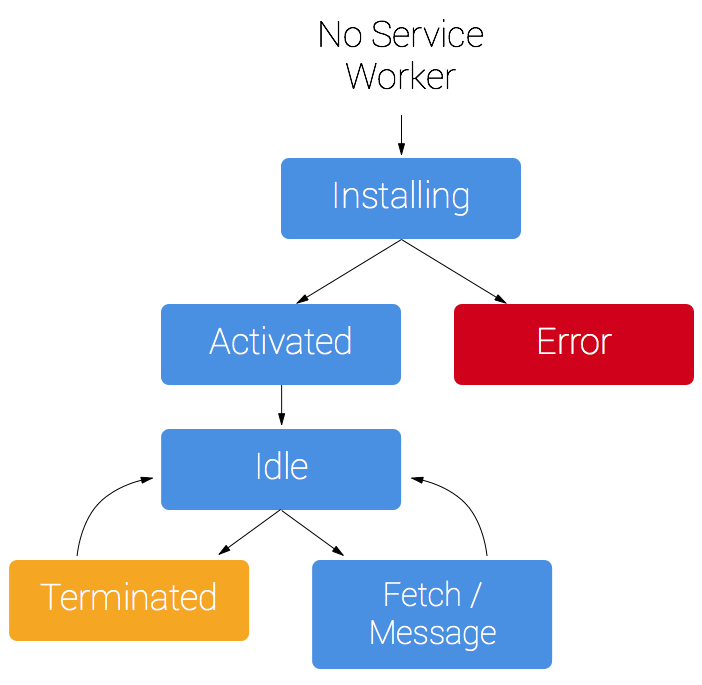
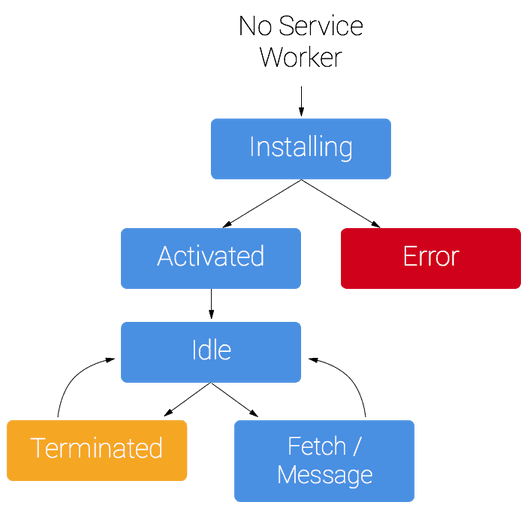
Site updated: 2018-03-14 10:37:31

diff --git a/2018/03/09/웹앱-매니페스트-서비스워커-Web-App-Manifest-Service-Worker/index.html b/2018/03/09/웹앱-매니페스트-서비스워커-Web-App-Manifest-Service-Worker/index.html
@@ -18,7 +18,7 @@
 <meta property="og:description" content="이전 포스트에서 프로그레시브 웹앱(Progressive Web Apps)은 웹과 네이티브 앱이 가진 단점을 개선하는 새로운 형태의 웹앱이라고 설명드렸습니다. 그렇다면, 어떻게 PWA를 개발할 수 있을까요..? 어떠한 웹앱이 PWA가 되기 위해선 여러가지 조건을 충족하여야 하는데요. 그중에서도 특히 웹앱 매니페스트(Web App Manifest)와 서비스">
 <meta property="og:locale" content="ko">
 <meta property="og:image" content="http://altenull.github.io/images/thumbnails/thumbnail3.png">
-<meta property="og:updated_time" content="2018-03-13T17:05:50.628Z">
+<meta property="og:updated_time" content="2018-03-14T01:36:23.673Z">
 <meta name="twitter:card" content="summary">
 <meta name="twitter:title" content="웹앱 매니페스트 &amp; 서비스워커(Web App Manifest &amp; Service Worker)">
 <meta name="twitter:description" content="이전 포스트에서 프로그레시브 웹앱(Progressive Web Apps)은 웹과 네이티브 앱이 가진 단점을 개선하는 새로운 형태의 웹앱이라고 설명드렸습니다. 그렇다면, 어떻게 PWA를 개발할 수 있을까요..? 어떠한 웹앱이 PWA가 되기 위해선 여러가지 조건을 충족하여야 하는데요. 그중에서도 특히 웹앱 매니페스트(Web App Manifest)와 서비스">
@@ -190,7 +190,7 @@ ga('send', 'pageview');
 <p>어떠한 웹앱이 PWA가 되기 위해선 여러가지 조건을 충족하여야 하는데요. 그중에서도 특히 웹앱 매니페스트(Web App Manifest)와 서비스워커(Service Worker)는 필수적으로 포함되어야하는 요소입니다. 더 자세히 알아보도록 하겠습니다.</p>
 <p>이를 위해 <a href="https://github.com/facebook/create-react-app" target="_blank" rel="noopener">create-react-app</a>으로 프로젝트를 생성하여 진행해보도록 하겠습니다. React 개발환경을 쉽게 구성할 수 있는 create-react-app에는 이미 웹 매니페스트, 서비스워커 등이 상당 부분 구현되어 있어서 이해하기가 훨씬 수월할 것입니다.</p>
 <hr>
-<h1 id="create-react-app-프로젝트-생성"><a href="#create-react-app-프로젝트-생성" class="headerlink" title="create-react-app 프로젝트 생성"></a>create-react-app 프로젝트 생성</h1><p>먼저 create-react-app으로 react-pwa라는 샘플 프로젝트를 생성합니다.</p>
+<h1 id="create-react-app-프로젝트-생성"><a href="#create-react-app-프로젝트-생성" class="headerlink" title="create-react-app 프로젝트 생성"></a>create-react-app 프로젝트 생성</h1><p>먼저 create-react-app으로 react-pwa라는 이름의 프로젝트를 생성합니다.</p>
 <figure class="highlight plain"><table><tr><td class="gutter"><pre><span class="line">1</span><br></pre></td><td class="code"><pre><span class="line">create-react-app react-pwa</span><br></pre></td></tr></table></figure>
 <p>위 명령어를 실행하고 나면 react-pwa 폴더가 생성됩니다. 그리고 이 폴더를 열어보면 다음과 같이 프로젝트가 구성되어 있는데요. 여기서 주목해야 할 것은 <code>manifest.json</code>과 <code>registerServiceWorker.js</code> 입니다.</p>
 <p align="center"><img src="/images/pwa/react-pwa.png" style="box-shadow: 0 3px 6px rgba(0,0,0,0.16), 0 3px 6px rgba(0,0,0,0.23);"></p>
@@ -214,7 +214,7 @@ ga('send', 'pageview');
 <hr>
 <h1 id="서비스워커-Service-Worker"><a href="#서비스워커-Service-Worker" class="headerlink" title="서비스워커(Service Worker)"></a>서비스워커(Service Worker)</h1><p>서비스워커는 브라우저의 백그라운드에서 실행되는 자바스크립트 워커입니다. PWA는 네이티브 앱처럼 오프라인 상태에서도 사용가능하고, 푸시 알림(Notification) 기능도 사용할 수 있는데요. 이런 기능을 할 수 있도록 도와주는 것이 바로 서비스워커입니다. 향후에는 서비스워커에 <a href="https://developers.google.com/location-context/geofencing/" target="_blank" rel="noopener">지오펜싱(Geofencing)</a>과 같은 기능이 추가될 예정이라고 합니다.</p>
 <h4 id="생명주기-Life-Cycle"><a href="#생명주기-Life-Cycle" class="headerlink" title="생명주기(Life Cycle)"></a>생명주기(Life Cycle)</h4><p>서비스워커는 다음과 같은 생명주기를 가집니다.</p>
-<p align="center"><img src="/images/pwa/sw-lifecycle.png" width="680" style="box-shadow: 0 3px 6px rgba(0,0,0,0.16), 0 3px 6px rgba(0,0,0,0.23);"></p>
+<p align="center"><img src="/images/pwa/sw-lifecycle.png" style="box-shadow: 0 3px 6px rgba(0,0,0,0.16), 0 3px 6px rgba(0,0,0,0.23);"></p>
 
 <p>서비스워커를 설치하기 위해서는 먼저 등록을 해야하는데요. 서비스워커 등록 코드는 <code>registerServiceWorker.js</code>에 이미 구현이 되어있습니다. 등록을 하게 되면 브라우저가 백그라운드에서 서비스워커 설치를 시작하게 됩니다. 설치단계 동안에는 정적자원을 캐싱하는 작업을 진행하게 되고, 모든 정적자원의 캐싱이 완료되면 비로소 서비스워커 설치가 끝납니다. 이렇게 서비스워커가 설치 되고, 활성화되고 나면 비로소 서비스워커가 기능을 할 수 있게됩니다.</p>
 <h4 id="서비스워커-등록-과정"><a href="#서비스워커-등록-과정" class="headerlink" title="서비스워커 등록 과정"></a>서비스워커 등록 과정</h4><p><code>registerServiceWorker.js</code>에 구현되어 있는 <code>register()</code>, <code>registerValidSW()</code> 함수입니다.</p>
@@ -261,7 +261,7 @@ ga('send', 'pageview');
 
 
 
-    <a data-url="http://altenull.github.io/2018/03/09/웹앱-매니페스트-서비스워커-Web-App-Manifest-Service-Worker/" data-id="cjepwrklt000160tufw70zt8d" class="article-share-link"><i class="fa fa-share"></i>공유하기</a>
+    <a data-url="http://altenull.github.io/2018/03/09/웹앱-매니페스트-서비스워커-Web-App-Manifest-Service-Worker/" data-id="cjeqer2ep0001p8tuutqcqg8z" class="article-share-link"><i class="fa fa-share"></i>공유하기</a>
 <script>
     (function ($) {
         $('body').on('click', function() {

diff --git a/2018/02/25/프로그레시브-웹-앱-Progressive-Web-Apps-란/index.html b/2018/02/25/프로그레시브-웹-앱-Progressive-Web-Apps-란/index.html
@@ -256,7 +256,7 @@ ga('send', 'pageview');
 
 
 
-    <a data-url="http://altenull.github.io/2018/02/25/프로그레시브-웹-앱-Progressive-Web-Apps-란/" data-id="cjepwrkm5000460tue0n8iask" class="article-share-link"><i class="fa fa-share"></i>공유하기</a>
+    <a data-url="http://altenull.github.io/2018/02/25/프로그레시브-웹-앱-Progressive-Web-Apps-란/" data-id="cjeqer2ew0004p8tuo1ah4apc" class="article-share-link"><i class="fa fa-share"></i>공유하기</a>
 <script>
     (function ($) {
         $('body').on('click', function() {

diff --git a/2018/02/19/Hexo-블로그-개설/index.html b/2018/02/19/Hexo-블로그-개설/index.html
@@ -195,7 +195,7 @@ ga('send', 'pageview');
 
 
 
-    <a data-url="http://altenull.github.io/2018/02/19/Hexo-블로그-개설/" data-id="cjepwrklk000060tufex8taus" class="article-share-link"><i class="fa fa-share"></i>공유하기</a>
+    <a data-url="http://altenull.github.io/2018/02/19/Hexo-블로그-개설/" data-id="cjeqer2ei0000p8tuk6m2vs2i" class="article-share-link"><i class="fa fa-share"></i>공유하기</a>
 <script>
     (function ($) {
         $('body').on('click', function() {
